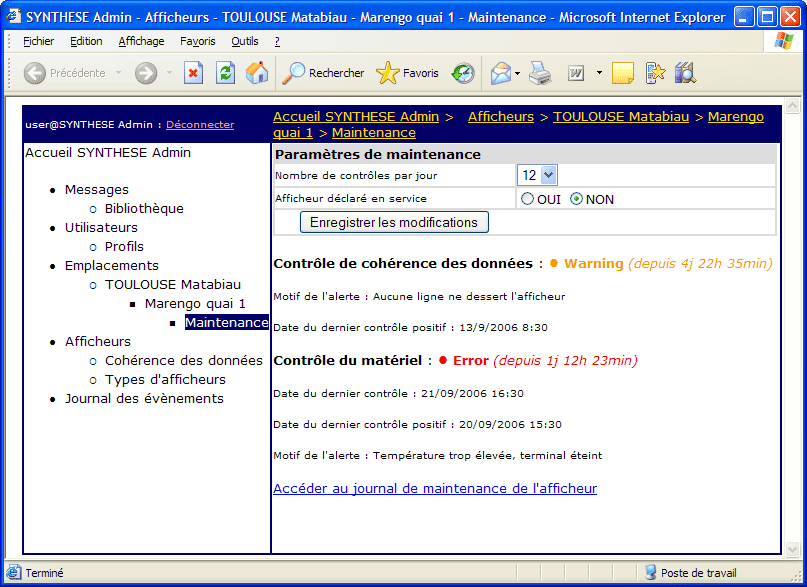
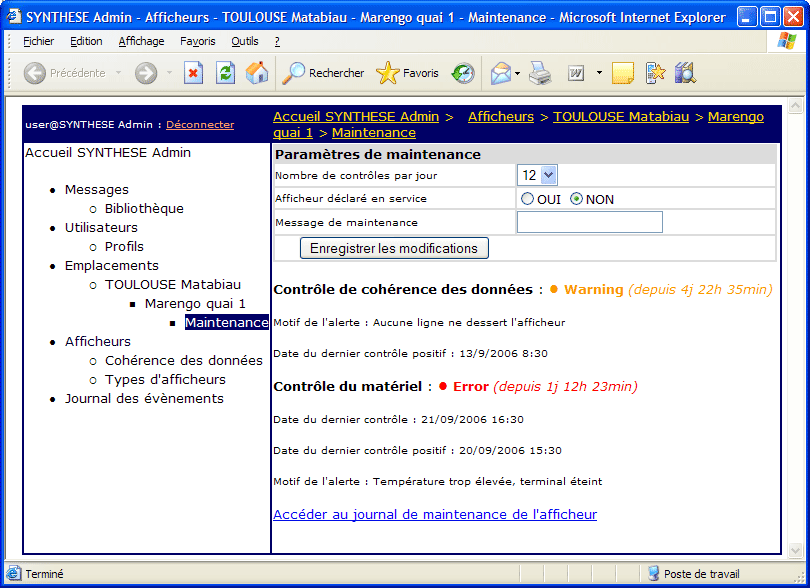
N°entrée RCS/projets : 1368

Changed region(s): [[0.0, 0.0, 0.9913, 1.0], [0.3098, 0.7053, 0.7435, 0.8893], [0.031, 0.0613, 0.062, 0.092]]

diff --git a/doc/schemas/capturesSAI/admin_display_maintenance.htm b/doc/schemas/capturesSAI/admin_display_maintenance.htm
@@ -63,19 +63,20 @@ function Button1_onclick() {
 							</UL>
 						<LI>
 							<FONT face="Verdana" size="2">Emplacements </FONT>
-						</LI>
-						<UL>
-							<LI>
-								<FONT face="Verdana" size="2"><FONT style="BACKGROUND-COLOR: #ffffff" color="#000000">TOULOUSE 
-										Matabiau</FONT>&nbsp;</FONT></LI>
 							<UL>
 								<LI>
-									<FONT face="Verdana" size="2">Marengo quai 1</FONT></LI>
-								<UL>
-									<LI>
-										<FONT style="BACKGROUND-COLOR: #000066" face="Verdana" color="#ffffff" size="2">Maintenance</FONT></LI></UL>
+									<FONT face="Verdana" size="2"><FONT style="BACKGROUND-COLOR: #ffffff" color="#000000">TOULOUSE 
+											Matabiau</FONT>&nbsp;</FONT>
+									<UL>
+										<LI>
+											<FONT face="Verdana" size="2">Marengo quai 1</FONT>
+											<UL>
+												<LI>
+													<FONT style="BACKGROUND-COLOR: #000066" face="Verdana" color="#ffffff" size="2">Maintenance</FONT></LI></UL>
+										</LI>
+									</UL>
+								</LI>
 							</UL>
-						</UL>
 						<LI>
 							<FONT face="Verdana" size="2"><FONT style="BACKGROUND-COLOR: #ffffff" color="#000033">Afficheurs
 								</FONT></FONT>
@@ -112,6 +113,11 @@ function Button1_onclick() {
 												<TD><FONT size="2"><INPUT id="Radio1" type="radio" value="Radio1" name="RadioGroupd">OUI
 														<INPUT id="Radio2" type="radio" CHECKED value="Radio1" name="RadioGroupd">NON</FONT>
 												</TD>
+											</TR>
+											<TR>
+												<TD style="WIDTH: 240px"><FONT size="1"><FONT color="#000000" size="1">Message de 
+															maintenance</FONT></FONT></TD>
+												<TD><INPUT id="Text1" type="text" name="Text1"></TD>
 											</TR>
 											<TR>
 												<TD style="WIDTH: 240px" align="center" colSpan="2"><INPUT language="javascript" id="Button5" style="WIDTH: 191px; HEIGHT: 24px" onclick="return Button1_onclick()"
